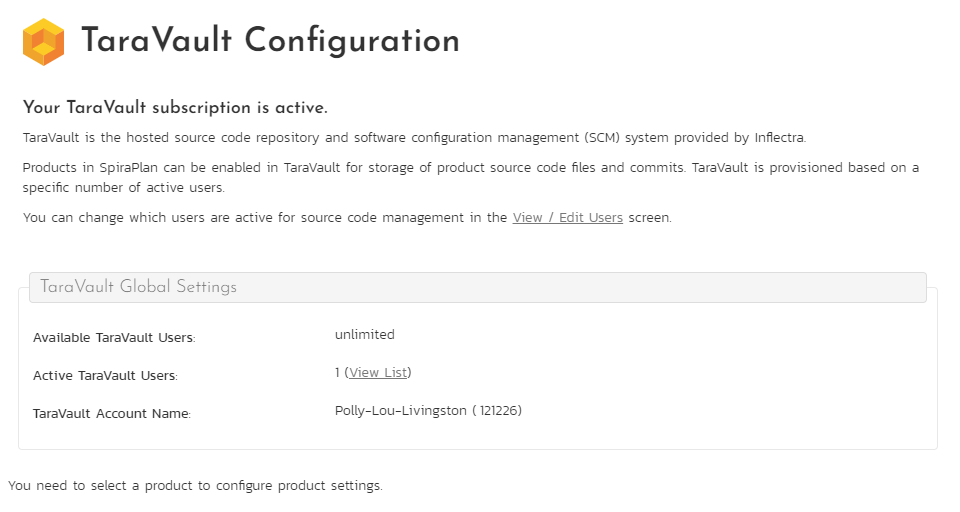
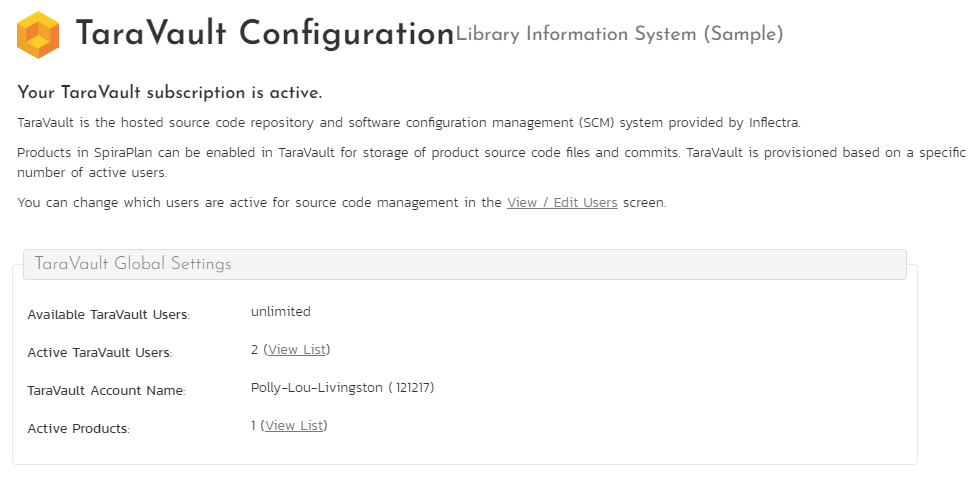
finishes updates to TaraVault

diff --git a/docs/Spira-User-Manual/Source-Code.md b/docs/Spira-User-Manual/Source-Code.md
@@ -9,7 +9,7 @@ SpiraTeam®'s and SpiraPlan®'s source code integration features let you:
 - link source code commits and files to SpiraPlan artifacts. 
 - view source code files from within SpiraPlan giving you end-to-end traceability from requirements, tasks, incidents, and more.
 
-SpiraPlan integrates with many different source code / Software Configuration Management (SCM). You can connect SpiraPlan and your source code using Inflectra's cloud-hosted  [TaraVault](../../TaraVault-User-Manual/Activating-TaraVault/) or plugins for the different SCM's (including [Git](../../Version-Control-Integration/Integrating-with-Git/) and [Subversion](../../Version-Control-Integration/Integrating-with-Subversion/)). 
+SpiraPlan integrates with many different source code / Software Configuration Management (SCM). You can connect SpiraPlan and your source code using Inflectra's cloud-hosted  [TaraVault](../../TaraVault-User-Manual/Activating-TaraVault/) or plugins for the different SCM's (including [Git](../../Version-Control-Integration/Integrating-with-Git/) and [Subversion](../../Version-Control-Integration/Integrating-with-Subversion/)). If you want to learn more about using a source code provider, read our intro guides to  [using Git](../../TaraVault-User-Manual/Using-Git/) and [using Subversion](../../TaraVault-User-Manual/Using-Subversion/).
 
 This section outlines SpiraPlan's source code features, whatever type of source code provider you are using. [The Commit section](../Commits) outlines viewing and working with commits and the changes made in them.
 

diff --git a/docs/TaraVault-User-Manual/Activating-TaraVault.md b/docs/TaraVault-User-Manual/Activating-TaraVault.md
@@ -5,6 +5,8 @@ TaraVault® is the secure source code and file hosting service from Inflectra th
 
 This guide assumes that the reader is familiar with both SpiraPlan/SpiraTeam and the appropriate SCM platform (Git and/or Subversion). For information regarding how to use SpiraPlan/Team, please refer to the *[User Manual](../../Spira-User-Manual)*.
 
+You can use either Git or Subversion with TaraVault. If you want to learn more about each of these and which is right for you, read our intro guides to  [using Git](../Using-Git/) and [using Subversion](../Using-Subversion/).
+
 
 ## Activation
 To activate TaraVault:
@@ -24,9 +26,10 @@ If TaraVault is not yet activated, the TaraVault page displays a message explain
 This shows you you the following information:
 
 - the number of available TaraVault users (typically this is unlimited)
-- the number of active TaraVault users. When you first activate TaraVault this will be 1 - the system administrator. You can click "view list" to see all TaraVault users.
+- the number of active TaraVault users. When you first activate TaraVault this will be 1 - the system administrator. Click "view list" to see all TaraVault users.
 - the name of your TaraVault account (this shoud match the name of your SpiraPlan application as shown in its url)
 - the TaraVault ID, which is shown in parentheses after the acount name information
+- the number of active TaraVault products. Click "view list" to see all TaraVault products.
 
 Now that TaraVault is active, you can:
 

diff --git a/docs/TaraVault-User-Manual/Provisioning-Projects-&-Users.md b/docs/TaraVault-User-Manual/Provisioning-Projects-&-Users.md
@@ -1,5 +1,5 @@
 # Provisioning Products & Users
-Once you have [activated TaraVault](../Activating-TaraVault), you can begin to provision specific products to use source code with TaraVault and assign users to commit code or files into the TaraVault repositories. Note: *All SpiraPlan users with roles that let them view source code, can view the code in the application, even if they are not a TaraVault user.*.
+Once you have [activated TaraVault](../Activating-TaraVault), you can begin to provision specific products to use source code with TaraVault and assign users to commit code or files into the TaraVault repositories. **Note**: All SpiraPlan users with roles that let them view source code, can view the code in the application, even if they are not a TaraVault user.
 
 
 ## Provisioning Products

diff --git a/docs/TaraVault-User-Manual/Using-Subversion.md b/docs/TaraVault-User-Manual/Using-Subversion.md
@@ -128,7 +128,8 @@ The main difference between a Branch and a Tag is that you can continue to make 
 Click 'OK' and we are now ready to view the repository within Spira.
 
 
-## Using Subversion with SpiraPlan Source code setup for your product is complete. Click on the "Source Code" or "Commits" menu items under the Developing tab to navigate and browse the source code repository.
+## Using Subversion with SpiraPlan
+Click on the "Source Code" or "Commits" menu items under the Developing tab to navigate and browse the source code repository.
 
 You can read more about working with source code in SpiraPlan at the links below:
 

diff --git a/docs/TaraVault-User-Manual/Using-Git.md b/docs/TaraVault-User-Manual/Using-Git.md
@@ -141,7 +141,8 @@ to push the changes:
 Once they have been pushed, we are now ready to view the repository within Spira.
 
 
-## Using Git with SpiraPlan Source code setup for your product is complete. Click on the "Source Code" or "Commits" menu items under the Developing tab to navigate and browse the source code repository.
+## Using Git with SpiraPlan
+Click on the "Source Code" or "Commits" menu items under the Developing tab to navigate and browse the source code repository.
 
 You can read more about working with source code in SpiraPlan at the links below:
 
